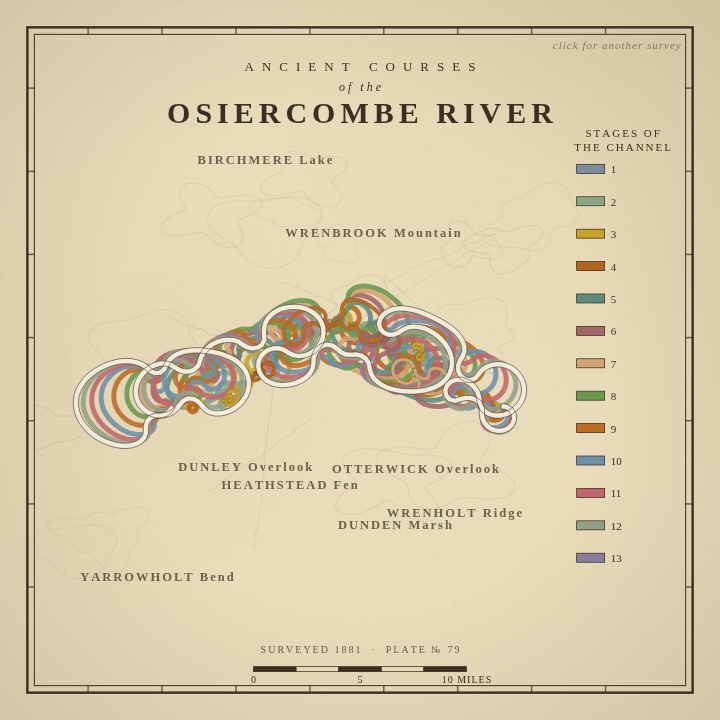
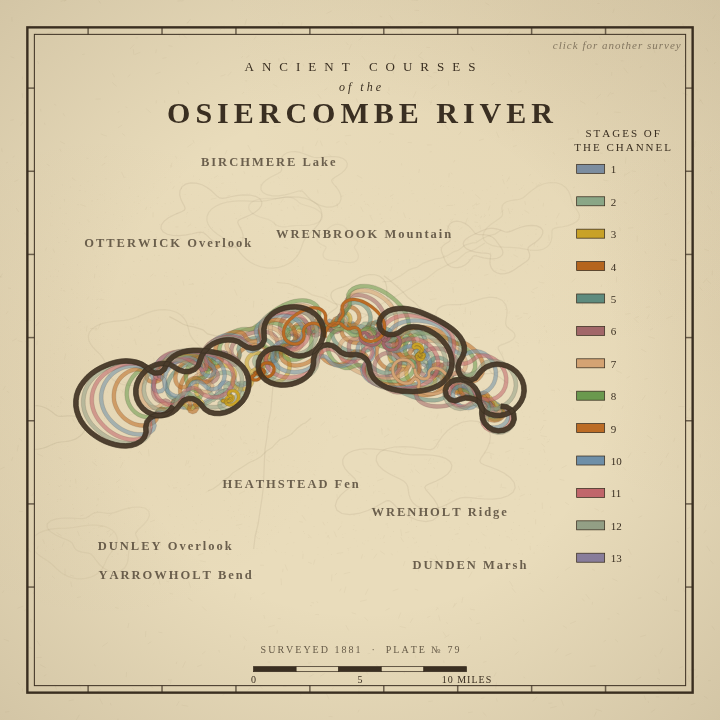
9007 Old Courses rework: dark-ink current course, readable stage stack, fixed label collisions

diff --git a/9007/index.html b/9007/index.html
@@ -183,7 +183,8 @@ function placename(r){
 const PAPER='#e9dcbb', INK='#3a2f22', FAINT='#6b5a3e';
 const EPOCH=['#7d8fa3','#8ba888','#c9a227','#b5651d','#5e8b7e','#a26769','#d4a373',
              '#6a994e','#bc6c25','#6e8fa8','#c1666b','#94a187','#8a7f9e'];
-const CHANNEL='#f4ecda';
+const NEWEST='#41321f';   // the current course: same ribbon language as the
+                          // historical stages, dark umber ink, slightly heavier
 
 /* ---------------- map ---------------- */
 const canvas=document.getElementById('map');
@@ -199,6 +200,12 @@ function spacedText(c,text,x,y,ls,align){
   let sx = align==='center' ? x-total/2 : (align==='right' ? x-total : x);
   [...text].forEach((ch,i)=>{ c.fillText(ch,sx,y); sx+=widths[i]+ls; });
   c.restore();
+}
+// true rendered width of spacedText, so labels can be placed by real bounds
+function spacedWidth(c,text,ls){
+  let t=0;
+  for(const ch of text) t+=c.measureText(ch).width;
+  return t+ls*(text.length-1);
 }
 
 function buildTerrain(seed, w, h){
@@ -322,18 +329,21 @@ function draw(){
   ctx.translate(ox,oy); ctx.scale(s,s);
   river.epochs.forEach((e,k)=>{
     ctx.fillStyle=EPOCH[k%EPOCH.length];
-    ctx.globalAlpha=0.88;
-    ribbonPath(ctx,e,river.width*0.94); ctx.fill();
+    ctx.globalAlpha=0.55;
+    ribbonPath(ctx,e,river.width*0.74); ctx.fill();
+    ctx.globalAlpha=0.5;
+    ctx.strokeStyle=INK; ctx.lineWidth=0.9; ctx.stroke();
   });
   ctx.globalAlpha=1;
   for(const L of river.lakes){
     ctx.fillStyle=EPOCH[L.bornEpoch%EPOCH.length];
-    ribbonPath(ctx,L.pts,river.width*0.66); ctx.fill();
+    ribbonPath(ctx,L.pts,river.width*0.58); ctx.fill();
     ctx.strokeStyle='rgba(58,47,34,0.55)'; ctx.lineWidth=1; ctx.stroke();
   }
-  ribbonPath(ctx,river.pts,river.width);
-  ctx.fillStyle=CHANNEL; ctx.fill();
-  ctx.strokeStyle=INK; ctx.lineWidth=1.8; ctx.stroke();
+  ribbonPath(ctx,river.pts,river.width*0.9);
+  ctx.fillStyle=NEWEST; ctx.globalAlpha=0.88; ctx.fill();
+  ctx.globalAlpha=1;
+  ctx.strokeStyle=INK; ctx.lineWidth=2.1; ctx.stroke();
   ctx.restore();
 
   // place names: screen-space, seeded, clear of the river on every viewport
@@ -344,25 +354,37 @@ function draw(){
     for(const L of river.lakes) for(let i=0;i<L.pts.length;i+=4) push(L.pts[i]);
     for(let i=0;i<river.pts.length;i+=6) push(river.pts[i]);
     const lr=mulberry32(SEED^0x51ab3);
-    const fs=small?10:12.5, placed=[];
+    const fs=small?10:12.5;
+    ctx.font=`600 ${fs}px Georgia, "Times New Roman", serif`;
+    const placed=[];
+    // rects a label must never touch: the legend, with a safety margin
+    const noGo=[{x:legend.x-8, y:legend.y-8, w:legend.w+16, h:legend.h+16}];
     for(const nm of labels){
       if(placed.length>=8) break;
-      const hw=nm.length*fs*0.32;
+      const hw=spacedWidth(ctx,nm,2)/2+5; // true half-width, not a guess
+      if(mapR.w-20-2*hw<1) continue;      // too long to fit the map honestly
       let bx=0,by=0,ok=false;
-      for(let a=0;a<120 && !ok;a++){
-        const x=mapR.x+8+hw+lr()*Math.max(1,(mapR.w-16-2*hw)), y=mapR.y+14+lr()*(mapR.h-28);
+      for(let a=0;a<240 && !ok;a++){
+        const x=mapR.x+10+hw+lr()*(mapR.w-20-2*hw), y=mapR.y+16+lr()*(mapR.h-32);
         ok=true;
-        for(const sx of [x-hw,x,x+hw]){
+        const r0={x:x-hw, y:y-fs-2, w:2*hw, h:fs+8};
+        for(const ng of noGo){
+          if(r0.x<ng.x+ng.w && r0.x+r0.w>ng.x && r0.y<ng.y+ng.h && r0.y+r0.h>ng.y){ ok=false; break; }
+        }
+        if(ok) for(const sx of [x-hw,x,x+hw]){
           for(let i=0;i<samp.length;i+=4){
             const p=samp[i];
             if(Math.hypot(p.x-sx,p.y-y)<30){ ok=false; break; }
           }
           if(!ok) break;
         }
-        if(ok) for(const o of placed){ if(Math.hypot(o.x-x,o.y-y)<46){ ok=false; break; } }
+        if(ok) for(const o of placed){ // width-aware: long names need real room
+          const dx=Math.abs(o.x-x), dy=Math.abs(o.y-y);
+          if(dx < o.hw+hw+10 && dy < fs+10){ ok=false; break; }
+        }
         if(ok){ bx=x; by=y; }
       }
-      if(ok) placed.push({x:bx,y:by,name:nm});
+      if(ok) placed.push({x:bx,y:by,name:nm,hw});
     }
     ctx.fillStyle=INK; ctx.globalAlpha=0.72;
     ctx.font=`600 ${fs}px Georgia, "Times New Roman", serif`;
@@ -449,7 +471,7 @@ function draw(){
   // hint
   ctx.globalAlpha=0.55; ctx.font=`italic ${small?9:11}px Georgia, serif`;
   if(!small) spacedText(ctx,'click for another survey',frame.x+frame.w-12,frame.y+22,1,'right');
-  else spacedText(ctx,'click for another survey',frame.x+10,frame.y+frame.h-8,1,'left');
+  else spacedText(ctx,'click for another survey',frame.x+pad,legend.y+legend.h+24,1,'left');
   ctx.globalAlpha=1;
 
   // vignette

diff --git a/index.html b/index.html
@@ -242,7 +242,7 @@
   </section>
   <section class="piece">
     <a class="thumb" href="9007/">
-      <img src="9007/thumb.png" alt="Old Courses: an antique survey plate of a fictional river, thirteen historical channels in muted survey colors, the present channel a cream ribbon">
+      <img src="9007/thumb.png" alt="Old Courses: an antique survey plate of a fictional river, thirteen historical channels in muted survey colors, the present channel a dark ink ribbon">
     </a>
     <div class="caption">
       <h2><span class="num">№9007</span> · Old Courses</h2>

diff --git a/9007/process.md b/9007/process.md
@@ -1,10 +1,48 @@
 # Process — №9007 "Old Courses" (2026-09-08)
 
-## Concept
+## Rework — 2026-09-23 (review-driven)
+Hans was unsure about the shipped piece. Three concrete flaws were identified
+and fixed structurally:
+
+1. **The white worm.** The current course was a cream-filled ribbon
+   (`#f4ecda`) with an ink outline that read as a glowing worm laid over the
+   plate. It now uses the same ribbon language as the historical stages:
+   dark umber ink (`#41321f`, `NEWEST`), drawn at 0.9x channel width and
+   0.88 alpha with a 2.1px ink edge. Slightly heavier than the old stages,
+   a sibling of them, not an overlay.
+2. **Muddy middle.** The 13 stage ribbons were 0.94x width at 0.88 alpha and
+   piled into brown mush in the densest zone. Stages are now 0.74x width at
+   0.55 alpha, each with a thin (0.9px) ink edge at 0.5 alpha, so every
+   stage's crescent reads individually. Oxbow lakes slimmed to match.
+3. **Label collisions.** The half-width estimate (`name.length * fs * 0.32`)
+   under-measured long names, so "WRENBROOK Mountain" spilled into the legend
+   swatches. Labels are now placed by true measured width
+   (`spacedWidth`, including letter-spacing) plus a 5px margin, with an
+   explicit no-go rect around the legend (both side and strip layouts), and
+   inter-label separation is width-aware instead of a flat 46px radius —
+   this caught a real "EMBERHAM Overlook"/"LOONDALE Marsh" overlap on seed
+   90210. A pre-existing mobile defect (the "click for another survey" hint
+   overlapping the scale bar at 390px) was also fixed by moving the hint
+   under the legend strip.
+
+Seeds re-compared under the new styling (424242, 90210, 777001, 867530):
+867530 still wins — clearest Fisk-like nesting, graceful dark channel, no
+tight knots. Default seed unchanged.
+
+Final QA: 0 console errors, no scroll/overflow at 1440x900 and 390x700
+(scrollWidth/scrollHeight vs viewport via CDP), click verified to change
+`?seed=` and re-run the survey on both viewports.
+
+Final local screenshots (rework):
+- Desktop (1440×900): `hidden_files/9007-rework-desktop.png`
+- Mobile (390×700): `hidden_files/9007-rework-mobile.png`
+- Thumbnail source (720×720): `hidden_files/9007-rework-thumb-src.png`
+
+## Concept (original)
 A fictional antique survey plate of a river that never existed. The piece runs
 a real meander simulation and then presents its output the way a 19th-century
-surveyor would: past channel positions as numbered historical stages, the
-current channel as a cream ribbon with an ink outline, oxbow lakes left behind
+surveyor would: past channel positions as numbered historical stages, the current channel as a dark
+ink ribbon in the same language as the stages (reworked 2026-09-23; was a
 where the river pinched itself off, and the whole thing dressed as an engraved
 plate with a title cartouche, stage legend, scale bar, graticule ticks, faint
 terrain, and invented place names. Clicking re-surveys: a new seed grows a new
